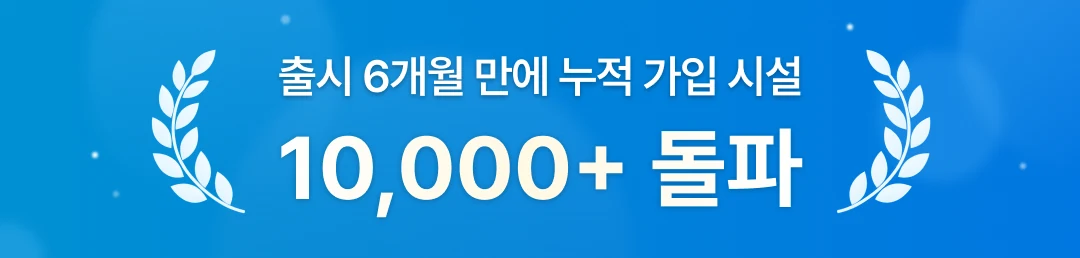
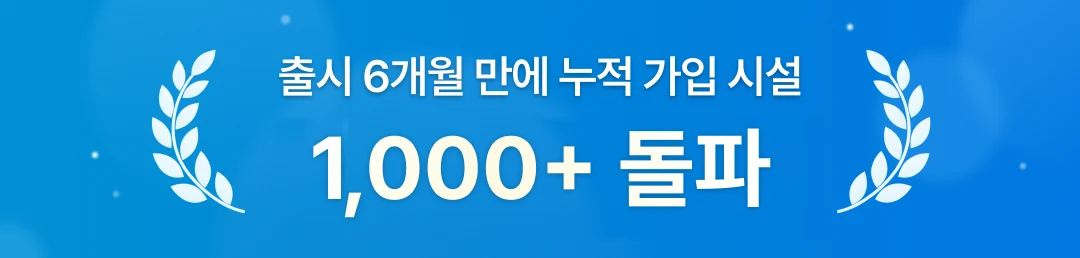
수정

Changed region(s): [[0.2444, 0.4961, 0.7639, 0.8682]]

diff --git a/promo-alarm.html b/promo-alarm.html
@@ -45,7 +45,7 @@
 <link rel="stylesheet" href="https://fonts.googleapis.com/css2?family=Archivo:wght@500;600;700;800;900&family=IBM+Plex+Mono:wght@400;500&display=swap" media="print" onload="this.media='all'">
 <noscript><link rel="stylesheet" href="https://fonts.googleapis.com/css2?family=Archivo:wght@500;600;700;800;900&family=IBM+Plex+Mono:wght@400;500&display=swap"></noscript>
 <link rel="stylesheet" href="/style.css?v=127">
-<link rel="stylesheet" href="/css/promo-alarm.css?v=1">
+<link rel="stylesheet" href="/css/promo-alarm.css?v=2">
 <meta name="google-site-verification" content="lDZgEQqX3qLvn-VhtOunmmuyQs7UHppV-iZnEZw7Xhs">
 </head>
 <!--
@@ -64,10 +64,10 @@
       <h1 class="sr-only">긴급 경보 알리미 — 화재·침수·정전·설비 이상 즉시 알림</h1>
       <div id="promoDetailBody" class="promo-detail-body">
 <section class="vi-replica" id="viaEmergencyHero" hidden aria-hidden="true"></section>
-  <div class="ta-milestone-banner" aria-label="출시 6개월 만에 누적 가입 시설 10,000곳 돌파">
+  <div class="ta-milestone-banner" aria-label="출시 6개월 만에 누적 가입 시설 1,000곳 돌파">
     <picture>
-      <source media="(max-width:760px)" srcset="/images/alarm/alarm-milestone-banner-mobile.webp" width="1080" height="258">
-      <img src="/images/alarm/alarm-milestone-banner.webp" width="1920" height="260" fetchpriority="high" decoding="async" alt="출시 6개월 만에 누적 가입 시설 10,000곳 돌파">
+      <source media="(max-width:760px)" srcset="/images/alarm/alarm-milestone-banner-mobile.webp?v=2" width="1080" height="258">
+      <img src="/images/alarm/alarm-milestone-banner.webp?v=2" width="1920" height="260" fetchpriority="high" decoding="async" alt="출시 6개월 만에 누적 가입 시설 1,000곳 돌파">
     </picture>
   </div>
   <section class="ti-security" id="tiSecuritySection" aria-labelledby="tiSecurityTitle">
@@ -400,6 +400,6 @@
 <script src="/js/monnit-lead.js?v=5"></script>
 <script src="/js/monnit-track.js?v=1" defer></script>
 <script src="/js/monnit-send.js?v=1"></script>
-<script src="/js/promo-alarm.js?v=1"></script>
+<script src="/js/promo-alarm.js?v=2"></script>
 </body>
 </html>

diff --git a/promo/alarm/index.html b/promo/alarm/index.html
@@ -45,7 +45,7 @@
 <link rel="stylesheet" href="https://fonts.googleapis.com/css2?family=Archivo:wght@500;600;700;800;900&family=IBM+Plex+Mono:wght@400;500&display=swap" media="print" onload="this.media='all'">
 <noscript><link rel="stylesheet" href="https://fonts.googleapis.com/css2?family=Archivo:wght@500;600;700;800;900&family=IBM+Plex+Mono:wght@400;500&display=swap"></noscript>
 <link rel="stylesheet" href="/style.css?v=127">
-<link rel="stylesheet" href="/css/promo-alarm.css?v=1">
+<link rel="stylesheet" href="/css/promo-alarm.css?v=2">
 <meta name="google-site-verification" content="lDZgEQqX3qLvn-VhtOunmmuyQs7UHppV-iZnEZw7Xhs">
 </head>
 <!--
@@ -64,10 +64,10 @@
       <h1 class="sr-only">긴급 경보 알리미 — 화재·침수·정전·설비 이상 즉시 알림</h1>
       <div id="promoDetailBody" class="promo-detail-body">
 <section class="vi-replica" id="viaEmergencyHero" hidden aria-hidden="true"></section>
-  <div class="ta-milestone-banner" aria-label="출시 6개월 만에 누적 가입 시설 10,000곳 돌파">
+  <div class="ta-milestone-banner" aria-label="출시 6개월 만에 누적 가입 시설 1,000곳 돌파">
     <picture>
-      <source media="(max-width:760px)" srcset="/images/alarm/alarm-milestone-banner-mobile.webp" width="1080" height="258">
-      <img src="/images/alarm/alarm-milestone-banner.webp" width="1920" height="260" fetchpriority="high" decoding="async" alt="출시 6개월 만에 누적 가입 시설 10,000곳 돌파">
+      <source media="(max-width:760px)" srcset="/images/alarm/alarm-milestone-banner-mobile.webp?v=2" width="1080" height="258">
+      <img src="/images/alarm/alarm-milestone-banner.webp?v=2" width="1920" height="260" fetchpriority="high" decoding="async" alt="출시 6개월 만에 누적 가입 시설 1,000곳 돌파">
     </picture>
   </div>
   <section class="ti-security" id="tiSecuritySection" aria-labelledby="tiSecurityTitle">
@@ -400,6 +400,6 @@
 <script src="/js/monnit-lead.js?v=5"></script>
 <script src="/js/monnit-track.js?v=1" defer></script>
 <script src="/js/monnit-send.js?v=1"></script>
-<script src="/js/promo-alarm.js?v=1"></script>
+<script src="/js/promo-alarm.js?v=2"></script>
 </body>
 </html>

diff --git a/css/promo-alarm.css b/css/promo-alarm.css
@@ -2,6 +2,10 @@
  *  공통 스타일은 /style.css 를 그대로 씁니다. 여기에는 알리미 화면에만 쓰는 규칙만 둡니다.
  *  (예전 promo-alarm.html 이 품고 있던 style.css 옛 사본에서 알리미 부분만 옮겼습니다)
  */
+/* 2026-10-02 공통 style.css 의 「html, body { overflow-x:hidden }」 이 body 를 스크롤 상자로 만들어
+   구독료 빌더 왼쪽 사진(position:sticky)이 따라 내려오지 않고 위에 멈춰 있던 문제.
+   clip 은 가로 넘침은 똑같이 자르지만 스크롤 상자를 만들지 않아 sticky 가 정상 동작합니다. */
+html, body { overflow-x: clip !important; overflow-y: visible !important; }
 .sr-only{position:absolute!important;width:1px;height:1px;padding:0;margin:-1px;overflow:hidden;clip:rect(0,0,0,0);white-space:nowrap;border:0}
 
 
